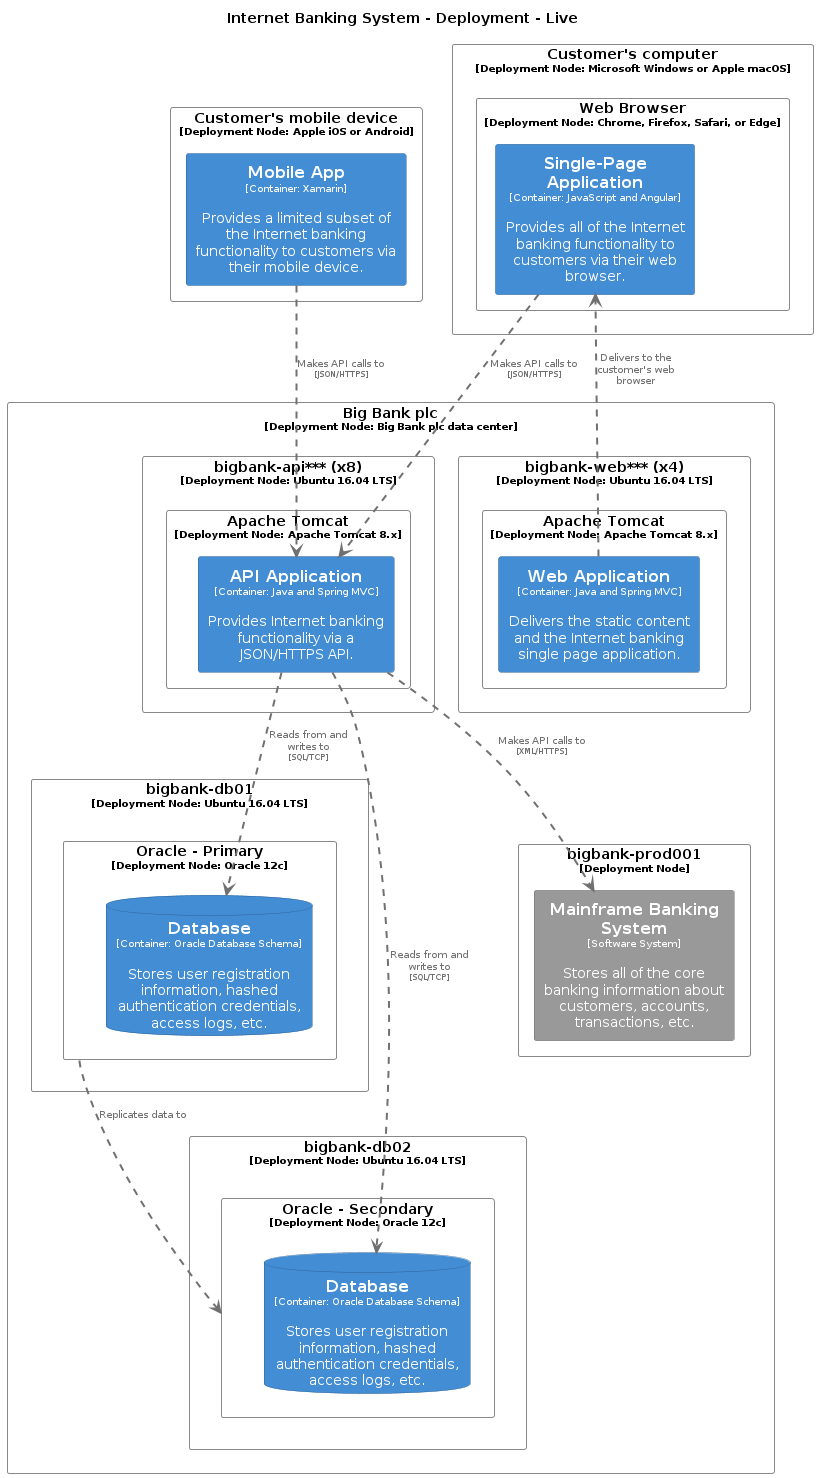
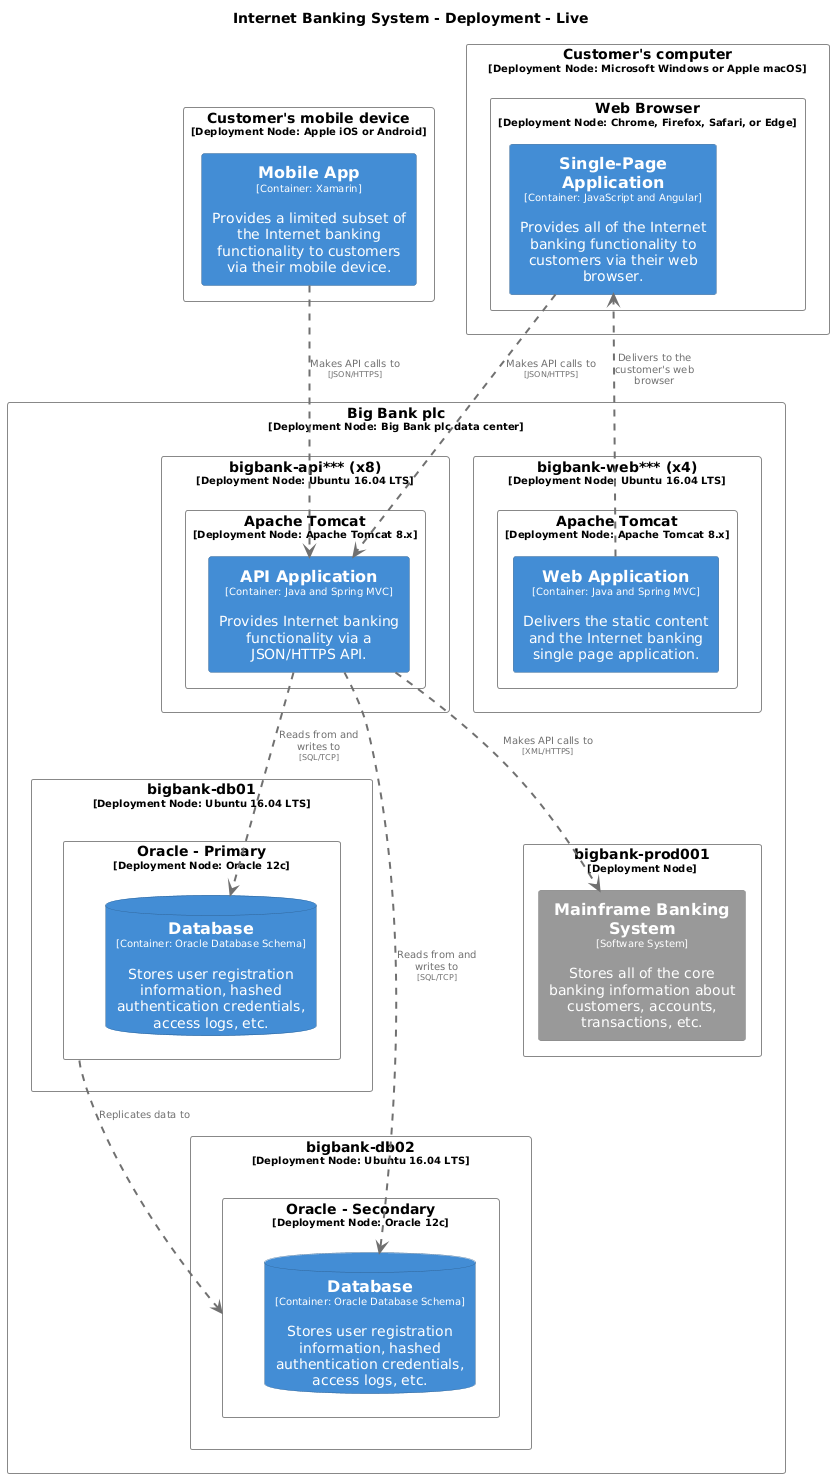
deploy: 81e3774b464427acf0cfab79e58ec8aa17afb34e

diff --git a/index.html b/index.html
@@ -503,7 +503,14 @@ body.book #toc,body.book #preamble,body.book h1.sect0,body.book .sect1>h2{page-b
 <li><a href="#_quality_scenarios">10.2. Quality Scenarios</a></li>
 </ul>
 </li>
-<li><a href="#section-technical-risks">11. Risks and Technical Debts</a></li>
+<li><a href="#section-technical-risks">11. Risks and Technical Debts</a>
+<ul class="sectlevel2">
+<li><a href="#_technical_debt_records">11.1. Technical Debt Records</a></li>
+<li><a href="#_tdr_1_debt_1">11.2. TDR 1: Debt 1</a></li>
+<li><a href="#_tdr_2_debt_2">11.3. TDR 2: Debt 2</a></li>
+<li><a href="#_tdr_3_debt_3">11.4. TDR 3: Debt 3</a></li>
+</ul>
+</li>
 <li><a href="#section-glossary">12. Glossary</a></li>
 </ul>
 </div>
@@ -583,7 +590,7 @@ body.book #toc,body.book #preamble,body.book h1.sect0,body.book .sect1>h2{page-b
 <h3 id="_business_context"><a class="anchor" href="#_business_context"></a>3.1. Business Context</h3>
 <div class="imageblock">
 <div class="content">
-<img src="./images/diag-955fc7c97af606f3bc6add915fde6232.png" alt="Diagram" width="594" height="752">
+<img src="./images/diag-955fc7c97af606f3bc6add915fde6232.png" alt="Diagram" width="605" height="768">
 </div>
 </div>
 <div class="paragraph">
@@ -591,7 +598,7 @@ body.book #toc,body.book #preamble,body.book h1.sect0,body.book .sect1>h2{page-b
 </div>
 <div class="imageblock">
 <div class="content">
-<img src="./images/diag-6b35317ad9ad0b7aa9dff02462727969.png" alt="Diagram" width="448" height="256">
+<img src="./images/diag-6b35317ad9ad0b7aa9dff02462727969.png" alt="Diagram" width="455" height="256">
 </div>
 </div>
 <div class="paragraph">
@@ -629,7 +636,7 @@ body.book #toc,body.book #preamble,body.book h1.sect0,body.book .sect1>h2{page-b
 <h3 id="_internet_banking_system"><a class="anchor" href="#_internet_banking_system"></a>5.1. Internet Banking System</h3>
 <div class="imageblock">
 <div class="content">
-<img src="./images/diag-d4a3c34bc24cdfc22319779b7f61a09c.png" alt="Diagram" width="949" height="1119">
+<img src="./images/diag-d4a3c34bc24cdfc22319779b7f61a09c.png" alt="Diagram" width="926" height="1135">
 </div>
 </div>
 <div class="paragraph">
@@ -637,7 +644,7 @@ body.book #toc,body.book #preamble,body.book h1.sect0,body.book .sect1>h2{page-b
 </div>
 <div class="imageblock">
 <div class="content">
-<img src="./images/diag-a427baf0e8fc3848fcfd6f097702e572.png" alt="Diagram" width="614" height="232">
+<img src="./images/diag-a427baf0e8fc3848fcfd6f097702e572.png" alt="Diagram" width="621" height="243">
 </div>
 </div>
 <div class="paragraph">
@@ -709,7 +716,7 @@ body.book #toc,body.book #preamble,body.book h1.sect0,body.book .sect1>h2{page-b
 <h4 id="_white_box_api_application"><a class="anchor" href="#_white_box_api_application"></a>5.2.1. White Box API Application</h4>
 <div class="imageblock">
 <div class="content">
-<img src="./images/diag-14cc8e0459f510e389d75b80aa602010.png" alt="Diagram" width="758" height="904">
+<img src="./images/diag-14cc8e0459f510e389d75b80aa602010.png" alt="Diagram" width="755" height="904">
 </div>
 </div>
 <div class="paragraph">
@@ -717,7 +724,7 @@ body.book #toc,body.book #preamble,body.book h1.sect0,body.book .sect1>h2{page-b
 </div>
 <div class="imageblock">
 <div class="content">
-<img src="./images/diag-c34e354f39210fb0412a30be11dec88f.png" alt="Diagram" width="627" height="232">
+<img src="./images/diag-c34e354f39210fb0412a30be11dec88f.png" alt="Diagram" width="633" height="243">
 </div>
 </div>
 <div class="paragraph">
@@ -771,7 +778,7 @@ body.book #toc,body.book #preamble,body.book h1.sect0,body.book .sect1>h2{page-b
 <h3 id="_sign_in"><a class="anchor" href="#_sign_in"></a>6.1. Sign-In</h3>
 <div class="imageblock">
 <div class="content">
-<img src="./images/diag-611b606a4f85ec13ed88f7565b671c1b.png" alt="Diagram" width="294" height="919">
+<img src="./images/diag-611b606a4f85ec13ed88f7565b671c1b.png" alt="Diagram" width="301" height="935">
 </div>
 </div>
 <div class="paragraph">
@@ -807,7 +814,7 @@ building block instances depicted in this diagram.&gt;</em></p>
 <h3 id="_infrastructure_level_1"><a class="anchor" href="#_infrastructure_level_1"></a>7.1. Infrastructure Level 1</h3>
 <div class="imageblock">
 <div class="content">
-<img src="./images/diag-75c08fe65e7091879eec951e9fe724af.png" alt="Diagram" width="818" height="1478">
+<img src="./images/diag-75c08fe65e7091879eec951e9fe724af.png" alt="Diagram" width="834" height="1478">
 </div>
 </div>
 <div class="paragraph">
@@ -815,7 +822,7 @@ building block instances depicted in this diagram.&gt;</em></p>
 </div>
 <div class="imageblock">
 <div class="content">
-<img src="./images/diag-9cf7997ac20aacca2aacb114b89c81ff.png" alt="Diagram" width="597" height="369">
+<img src="./images/diag-9cf7997ac20aacca2aacb114b89c81ff.png" alt="Diagram" width="608" height="369">
 </div>
 </div>
 <div class="dlist">
@@ -1001,7 +1008,88 @@ building block instances depicted in this diagram.&gt;</em></p>
 <div class="sect1">
 <h2 id="section-technical-risks"><a class="anchor" href="#section-technical-risks"></a>11. Risks and Technical Debts</h2>
 <div class="sectionbody">
+<div class="sect2">
+<h3 id="_technical_debt_records"><a class="anchor" href="#_technical_debt_records"></a>11.1. Technical Debt Records</h3>
+
+</div>
+<div class="sect2">
+<h3 id="_tdr_1_debt_1"><a class="anchor" href="#_tdr_1_debt_1"></a>11.2. TDR 1: Debt 1</h3>
+<div class="paragraph">
+<p>Date: 2025-05-31</p>
+</div>
+<div class="sect3">
+<h4 id="_status_4"><a class="anchor" href="#_status_4"></a>11.2.1. Status</h4>
+
+</div>
+<div class="sect3">
+<h4 id="_description"><a class="anchor" href="#_description"></a>11.2.2. Description</h4>
+
+</div>
+<div class="sect3">
+<h4 id="_impact"><a class="anchor" href="#_impact"></a>11.2.3. Impact</h4>
+
+</div>
+<div class="sect3">
+<h4 id="_possible_solutions"><a class="anchor" href="#_possible_solutions"></a>11.2.4. Possible Solutions</h4>
+
+</div>
+<div class="sect3">
+<h4 id="_owner"><a class="anchor" href="#_owner"></a>11.2.5. Owner</h4>
+
+</div>
+</div>
+<div class="sect2">
+<h3 id="_tdr_2_debt_2"><a class="anchor" href="#_tdr_2_debt_2"></a>11.3. TDR 2: Debt 2</h3>
+<div class="paragraph">
+<p>Date: 2025-05-31</p>
+</div>
+<div class="sect3">
+<h4 id="_status_5"><a class="anchor" href="#_status_5"></a>11.3.1. Status</h4>
+
+</div>
+<div class="sect3">
+<h4 id="_description_2"><a class="anchor" href="#_description_2"></a>11.3.2. Description</h4>
+
+</div>
+<div class="sect3">
+<h4 id="_impact_2"><a class="anchor" href="#_impact_2"></a>11.3.3. Impact</h4>
+
+</div>
+<div class="sect3">
+<h4 id="_possible_solutions_2"><a class="anchor" href="#_possible_solutions_2"></a>11.3.4. Possible Solutions</h4>
+
+</div>
+<div class="sect3">
+<h4 id="_owner_2"><a class="anchor" href="#_owner_2"></a>11.3.5. Owner</h4>
+
+</div>
+</div>
+<div class="sect2">
+<h3 id="_tdr_3_debt_3"><a class="anchor" href="#_tdr_3_debt_3"></a>11.4. TDR 3: Debt 3</h3>
+<div class="paragraph">
+<p>Date: 2025-05-31</p>
+</div>
+<div class="sect3">
+<h4 id="_status_6"><a class="anchor" href="#_status_6"></a>11.4.1. Status</h4>
+
+</div>
+<div class="sect3">
+<h4 id="_description_3"><a class="anchor" href="#_description_3"></a>11.4.2. Description</h4>
+
+</div>
+<div class="sect3">
+<h4 id="_impact_3"><a class="anchor" href="#_impact_3"></a>11.4.3. Impact</h4>
+
+</div>
+<div class="sect3">
+<h4 id="_possible_solutions_3"><a class="anchor" href="#_possible_solutions_3"></a>11.4.4. Possible Solutions</h4>
+
+</div>
+<div class="sect3">
+<h4 id="_owner_3"><a class="anchor" href="#_owner_3"></a>11.4.5. Owner</h4>
 <div style="page-break-after: always;"></div>
+</div>
+</div>
 </div>
 </div>
 <div class="sect1">
@@ -1035,7 +1123,7 @@ building block instances depicted in this diagram.&gt;</em></p>
 <div id="footer">
 <div id="footer-text">
 Version 8.2 EN<br>
-Last updated 2025-01-17 10:15:30 UTC
+Last updated 2025-05-31 08:16:08 UTC
 </div>
 </div>
 <script src="https://cdnjs.cloudflare.com/ajax/libs/highlight.js/9.18.3/highlight.min.js"></script>
